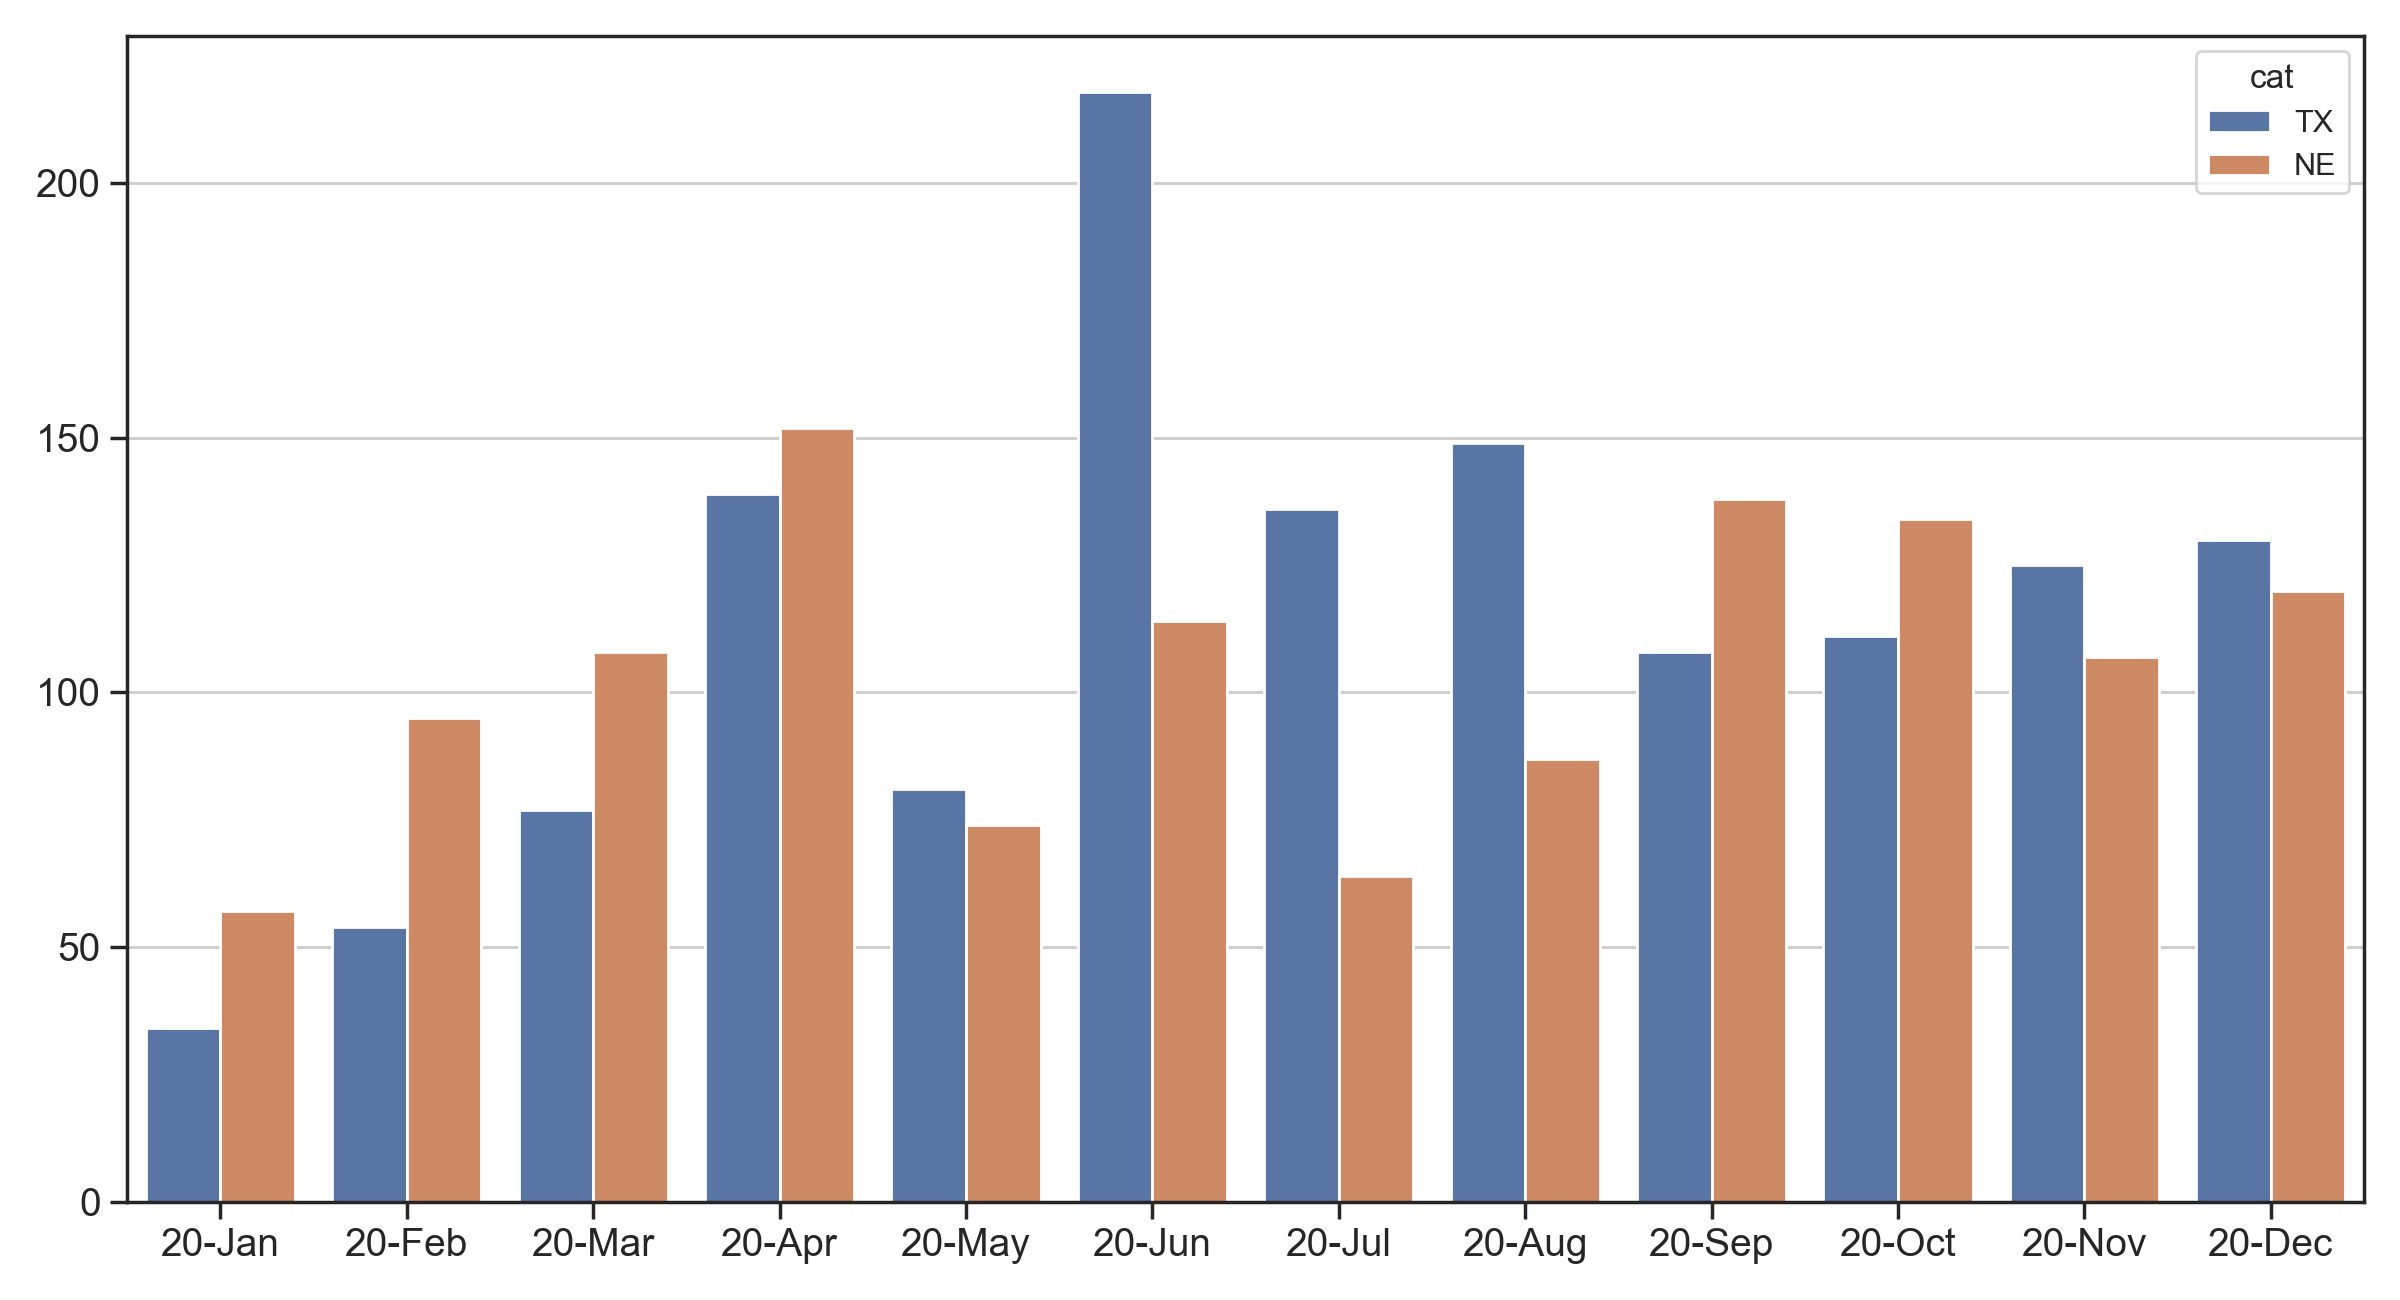
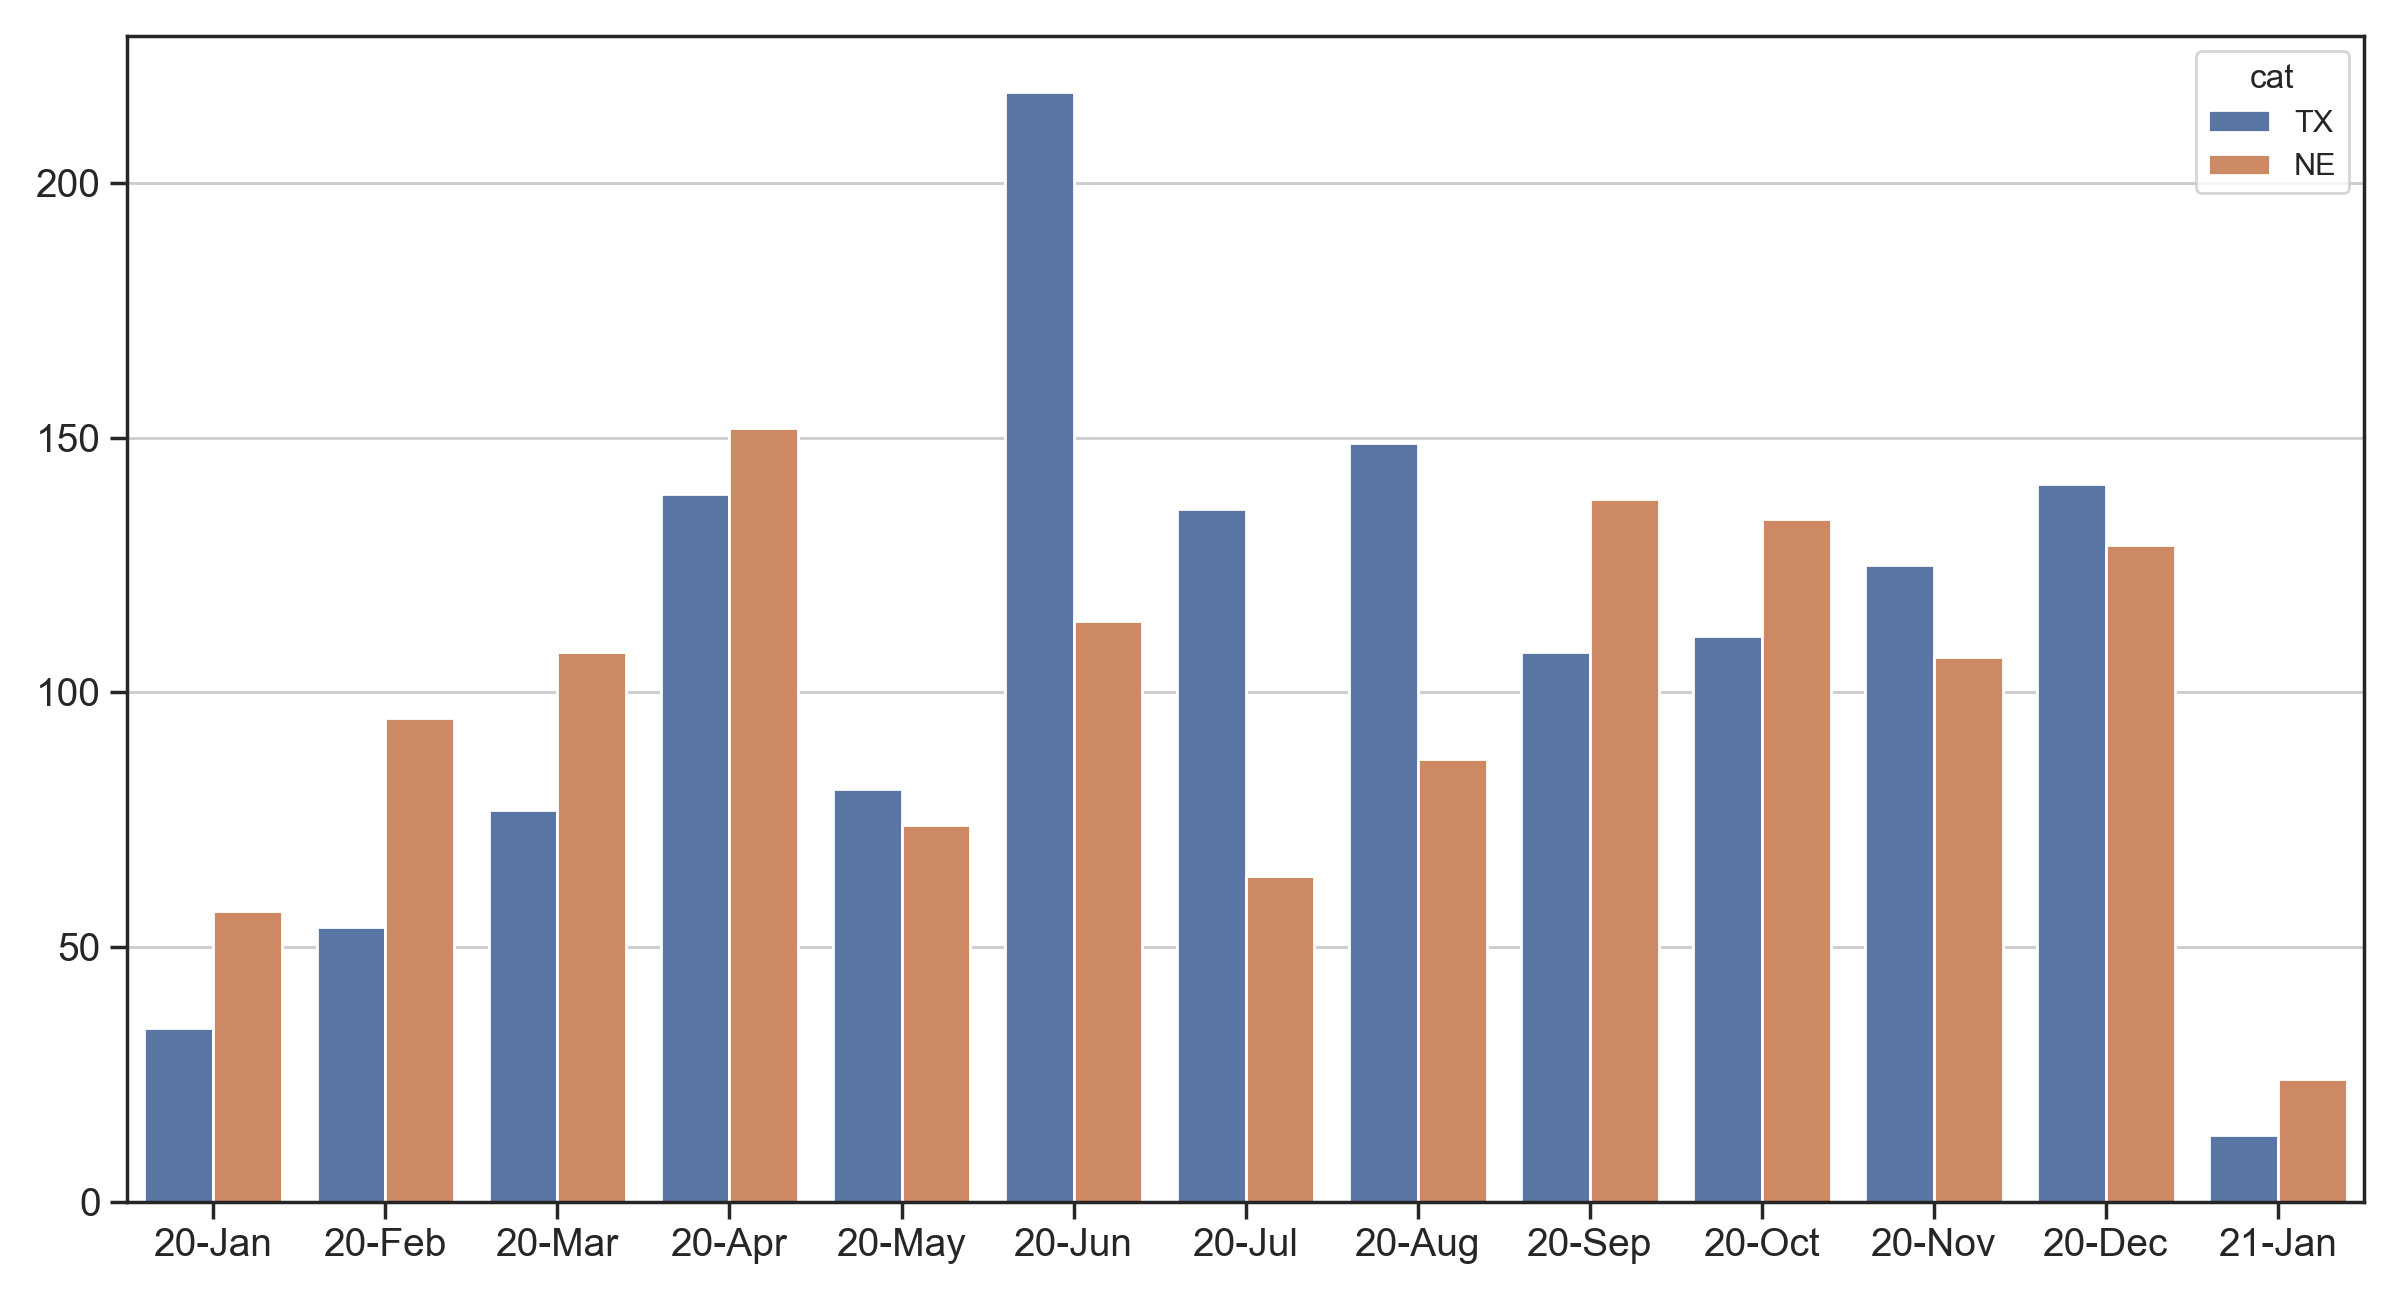
update Jan-22

diff --git a/README.md b/README.md
@@ -1,4 +1,4 @@
-## National Interest Waiver Wait Time, updated Jan-21-2021 
+## National Interest Waiver Wait Time, updated Jan-22-2021 
 * *If you are impacted by the slowdown of TSC's processing of NIW I-140 (or I-485, or I-765), you can fill out the form to bring awareness to this delay [from Greg Siskind's tweet](https://twitter.com/gsiskind/status/1351597348577824772). Please make sure to explain your case in: 'Describe the harm the processing delays are causing you'* 
  
 USCIS Employment-based-2 NIW I-140 wait time before approval (data source: [Victoria Chen](https://www.wegreened.com/eb1_niw_approvals)). 
